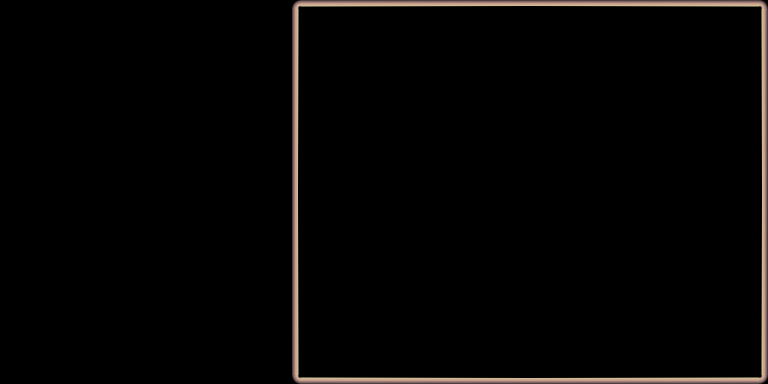
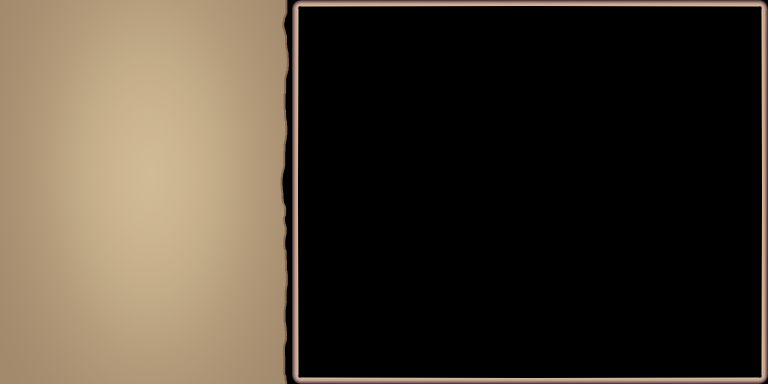
Text sizes implemented.

diff --git a/src/scenes/MainMenuScene.ts b/src/scenes/MainMenuScene.ts
@@ -13,15 +13,18 @@ export class MainMenuScene implements Scene {
 
   }
 
-  render(renderer: Renderer): void {
-    renderer.drawImage(this.backgroundImage, 0, 0);
-    renderer.drawGridlines();
-    renderer.drawText("Eastward Bound!", 10, 100);
+  render(r: Renderer): void {
+    r.drawImage(this.backgroundImage, 0, 0);
+    r.drawGridlines();
+
+    r.drawText("Name Goes Here!", 10, 10, "big");
+    r.drawText("Eastward Bound!", 10, 100);
+    r.drawText("Small text here. HELLO HELLO!!!", 30, 45, "small");
+    r.drawText("Tiny text! WHAT IS THIS!?", 60, 60, "tiny");
   }
 
   onEnter(): void {
     console.log("Entered Main Menu");
-    
   }
 
   

diff --git a/src/engine/renderer.ts b/src/engine/renderer.ts
@@ -7,6 +7,9 @@ export class Renderer {
     const context = canvas.getContext("2d");
     if (!context) throw new Error("Could not get canvas context");
     this.context = context;
+
+    this.context.textAlign = "left";
+    this.context.textBaseline = "top";
   }
 
   clear() {
@@ -40,10 +43,13 @@ export class Renderer {
     this.context.drawImage(image, x, y);
   }
 
-  drawText(text: string, x: number, y: number) {
+  drawText(text: string, x: number, y: number, size = "mid") {
     const c = this.context;
-    c.font = "24px Arial";
-    c.fillStyle = "#FFF";
+    c.font = "16px Arial";
+    if(size === "big") c.font = "32px Arial";
+    if(size === "small") c.font = "12px Arial";
+    if(size === "tiny") c. font = "8px Arial";
+    c.fillStyle = "#000";
     c.fillText(text, x, y);
   }
 }

diff --git a/src/main.ts b/src/main.ts
@@ -47,10 +47,12 @@ window.addEventListener("resize", resizeCanvas);
 resizeCanvas();
 
 async function main() {
+    const assets = new AssetManager();
+    await assets.assetsLoaded();
+
     const game = new Game(assets);
     game.start();
 }
 
-const assets = new AssetManager();
-await assets.assetsLoaded();
+
 main();

diff --git a/src/engine/AssetManager.ts b/src/engine/AssetManager.ts
@@ -17,7 +17,10 @@ export class AssetManager {
   }
 
   async assetsLoaded(): Promise<void> {
-    this.loadImage("battleBg", "../assets/bg.png");
+    await Promise.all([
+      this.loadImage("battleBg", "../assets/bg.png")
+    ]);
+    console.log("Assets loaded!")
     return;
   }
 }